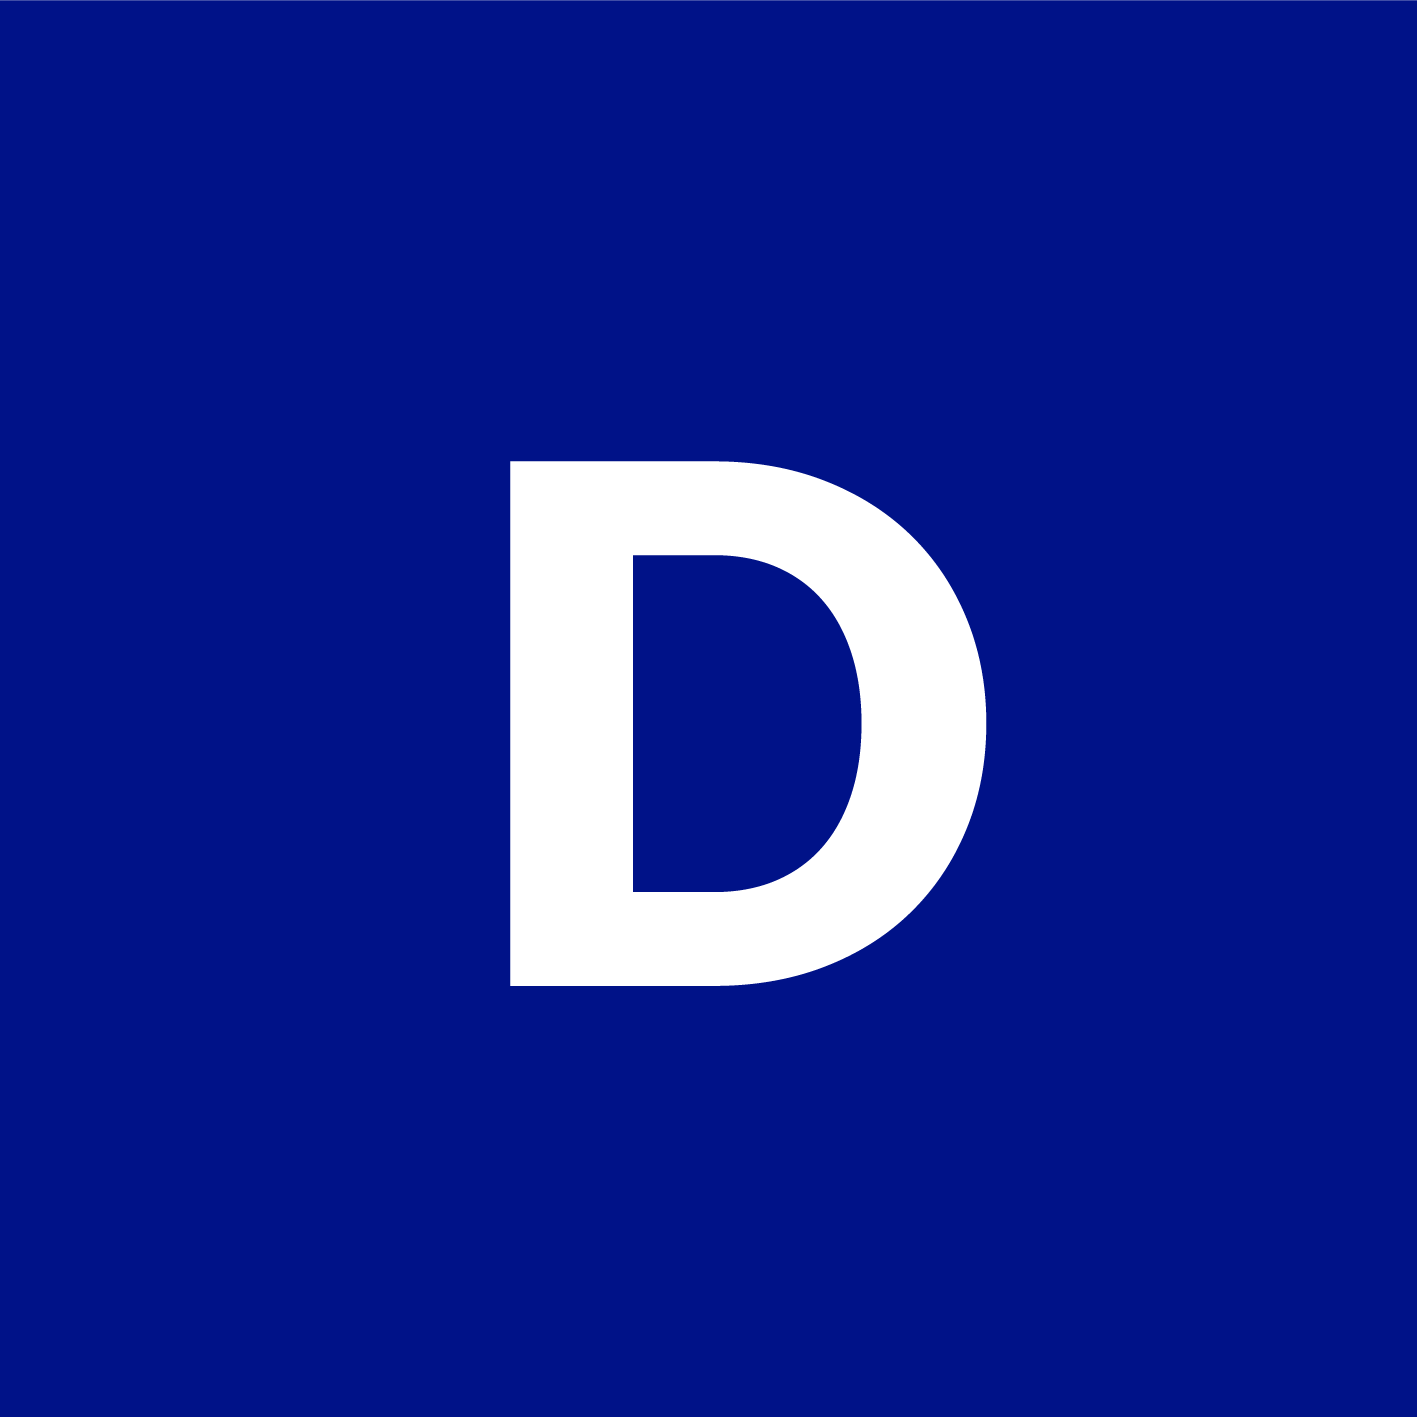
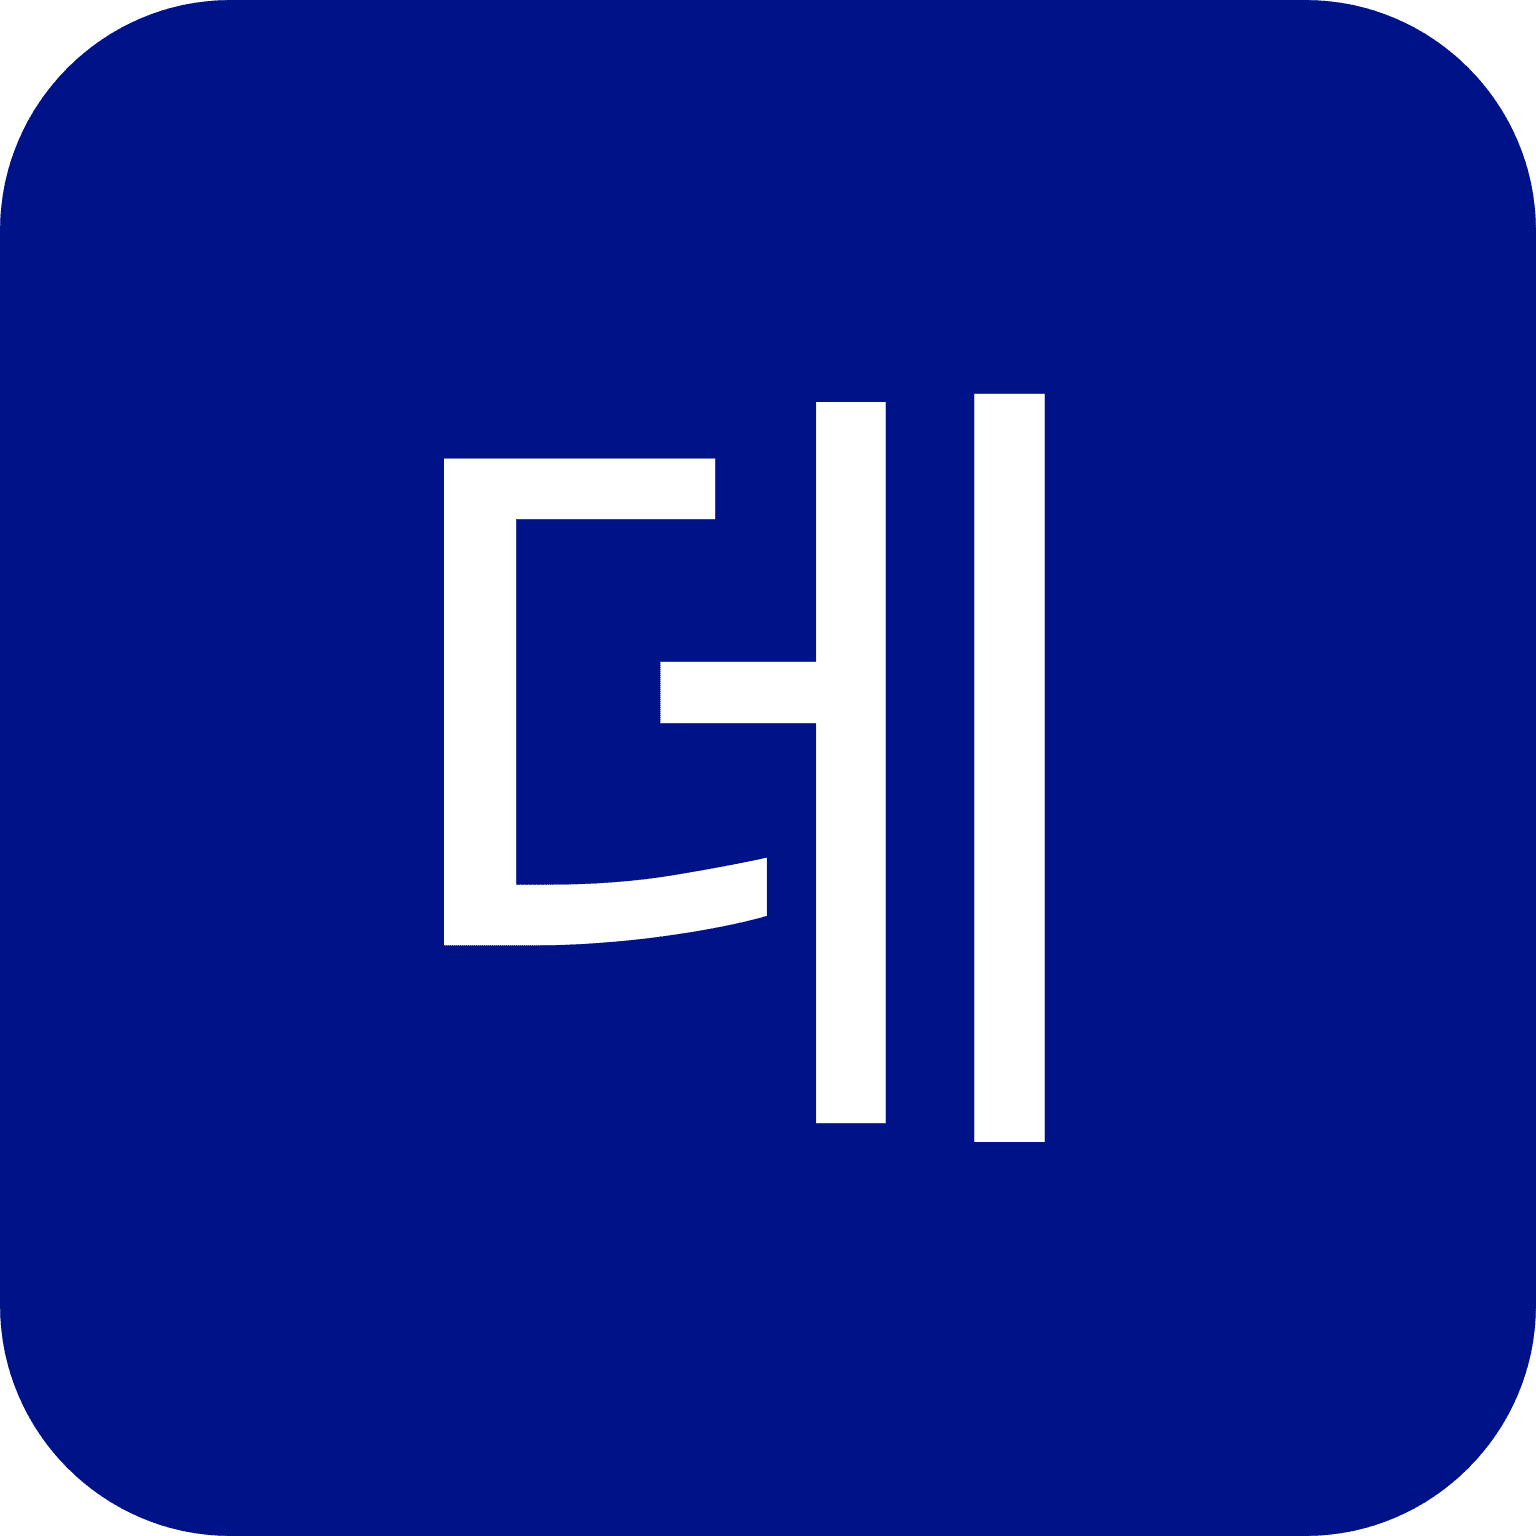
rails_real_favicon gem을 사용해 파비콘을 업데이트 합니다 (#74)

diff --git a/config/initializers/web_app_manifest.rb b/config/initializers/web_app_manifest.rb
@@ -1,0 +1,10 @@
+# This file was generated by rails_favicon_generator, from
+# https://realfavicongenerator.net/
+
+# It makes files with .webmanifest extension first class files in the asset
+# pipeline. This is to preserve this extension, as is it referenced in a call
+# to asset_path in the _favicon.html.erb partial.
+
+Rails.application.config.assets.configure do |env|
+  env.register_mime_type('application/manifest+json', extensions: ['.webmanifest'])
+end
